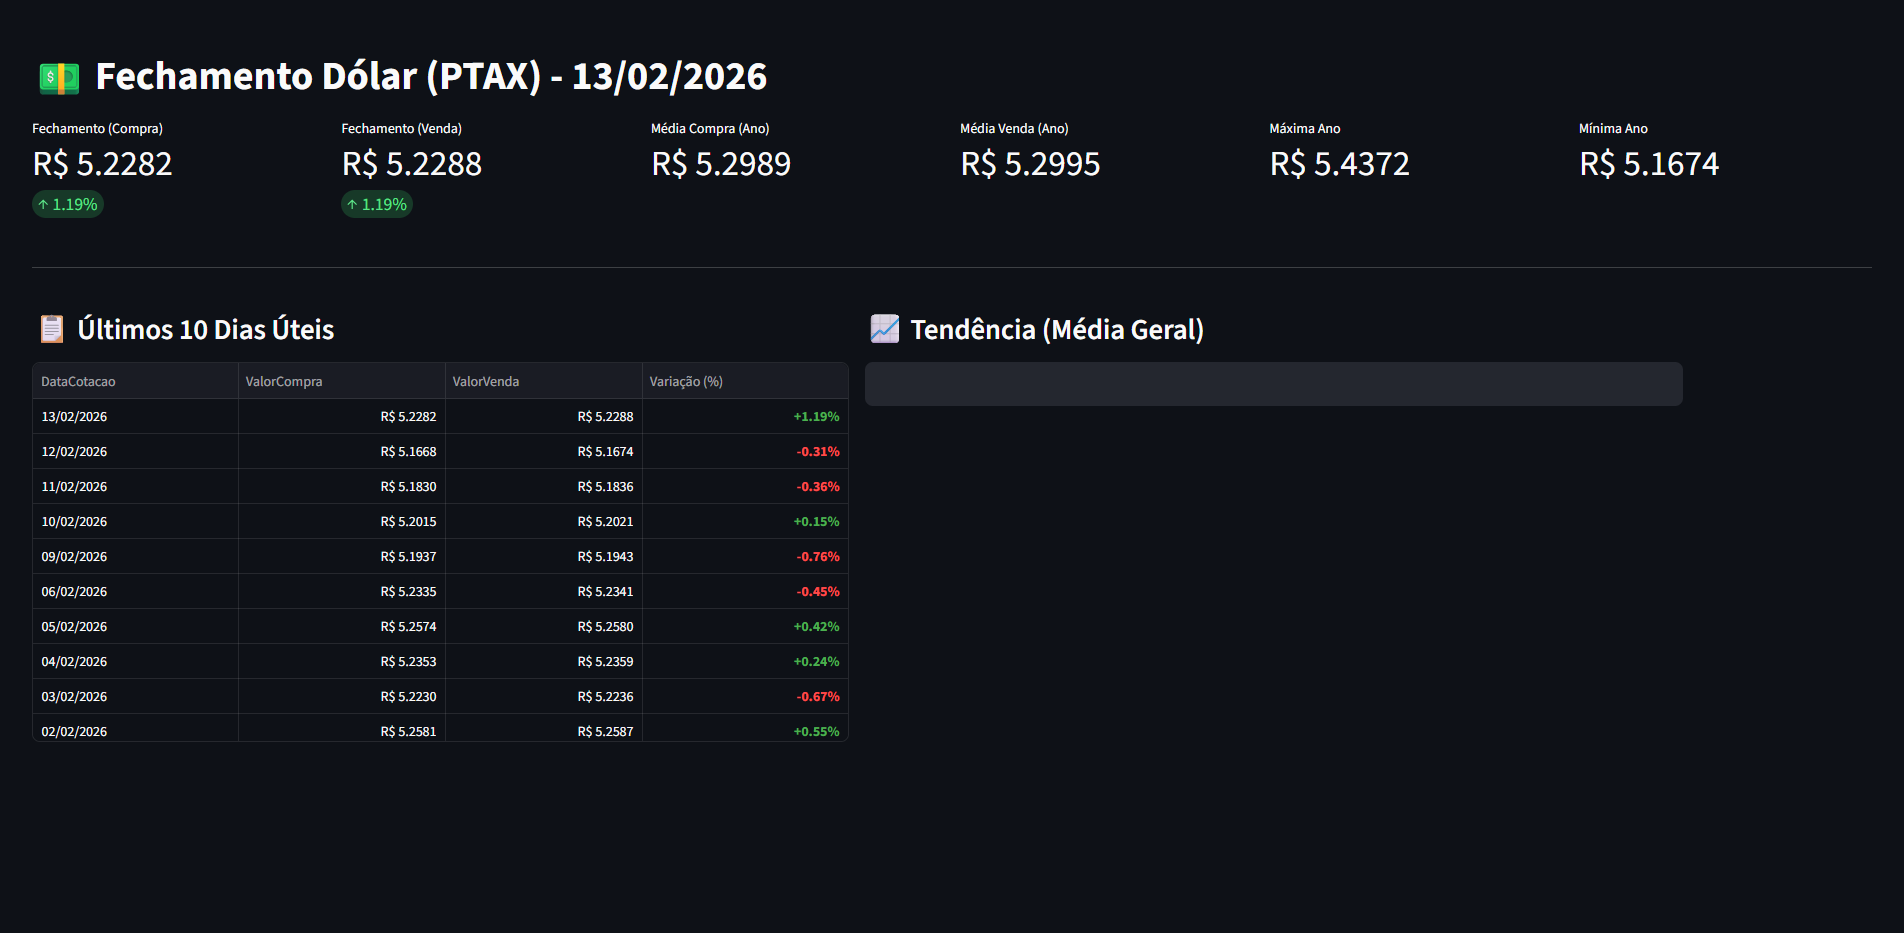
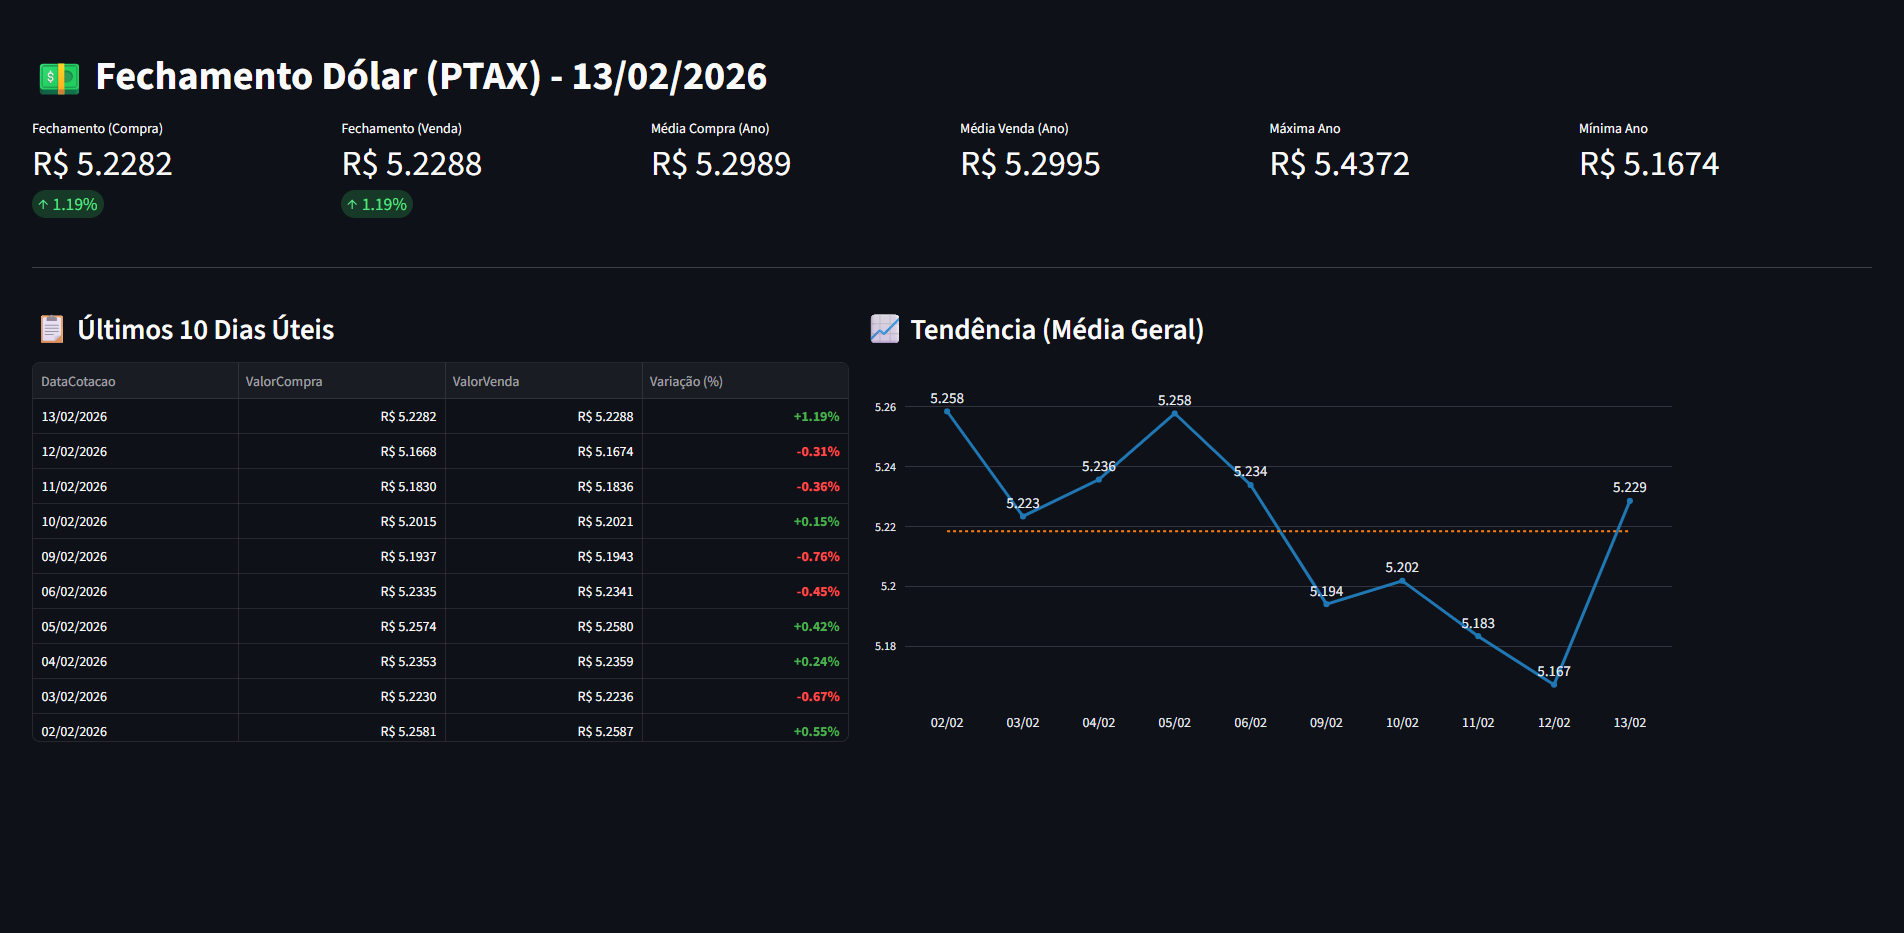
Forcar envio dos requisitos

diff --git a/cotação_dólar/carga_historica.py b/cotação_dólar/carga_historica.py
@@ -4,7 +4,7 @@ from datetime import datetime
 
 # --- CONFIGURAÇÕES ---
 data_inicio = '02-14-2026'
-data_fim = '02-16-2026'  # (Mês 03, dia 02? Ou Dia 03, Mês 02?)
+data_fim = '02-18-2026'  # (Mês 03, dia 02? Ou Dia 03, Mês 02?)
 
 # URL específica para PERÍODO (Note o $top=10000 para garantir que traga tudo de uma vez)
 url_api = (
